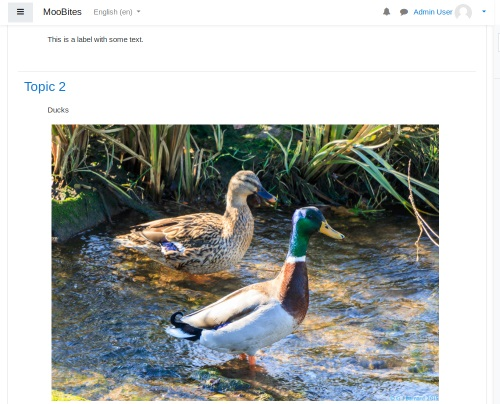
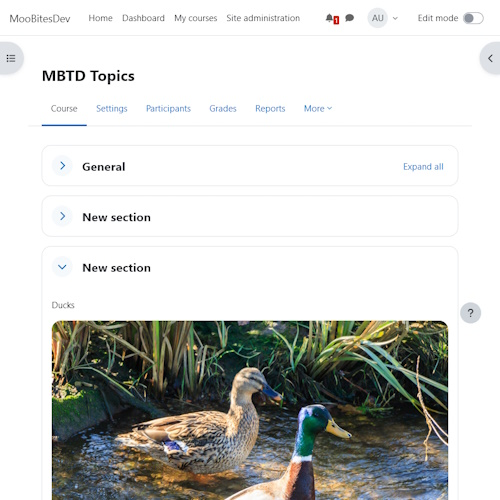
V404.0.1

diff --git a/settings.php b/settings.php
@@ -27,13 +27,4 @@ defined('MOODLE_INTERNAL') || die;
 
 if ($ADMIN->fulltree) {
     // Add your settings here.
-
-    // Custom CSS.
-    $name = 'theme_dennis/customcss';
-    $title = get_string('customcss', 'theme_dennis');
-    $description = get_string('customcssdesc', 'theme_dennis');
-    $default = '';
-    $setting = new admin_setting_configtextarea($name, $title, $description, $default, PARAM_TEXT);
-    $setting->set_updatedcallback('theme_reset_all_caches');
-    $settings->add($setting);
 }

diff --git a/lang/en/theme_dennis.php b/lang/en/theme_dennis.php
@@ -36,8 +36,6 @@ $string['choosereadme'] = '<div class="clearfix"><h2>Dennis</h2>'.
 '</div></div>';
 
 $string['configtitle'] = 'Dennis';
-$string['customcss'] = 'Custom CSS';
-$string['customcssdesc'] = 'Add custom CSS to the theme.';
 $string['pluginname'] = 'Dennis';
 
 $string['region-side-pre'] = 'Right';

diff --git a/version.php b/version.php
@@ -25,7 +25,7 @@
 
 defined('MOODLE_INTERNAL') || die;
 
-$plugin->version   = 20240611300;
+$plugin->version   = 2024082600;
 $plugin->requires = 2024042200.00; // 4.4 (Build: 20240422).
 $plugin->supported = [404, 404];
 $plugin->component = 'theme_dennis';

diff --git a/db/upgrade.php b/db/upgrade.php
@@ -32,8 +32,5 @@
  */
 function xmldb_theme_dennis_upgrade($oldversion = 0) {
 
-    // Automatic 'Purge all caches'....
-    purge_all_caches();
-
     return true;
 }

diff --git a/Changes.md b/Changes.md
@@ -1,5 +1,8 @@
 Version Information
 ===================
+Version 404.0.1
+  1. Upgrade to Moodle 4.4.
+
 Version 401.0.1
   1. Upgrade to Moodle 4.1.
 
